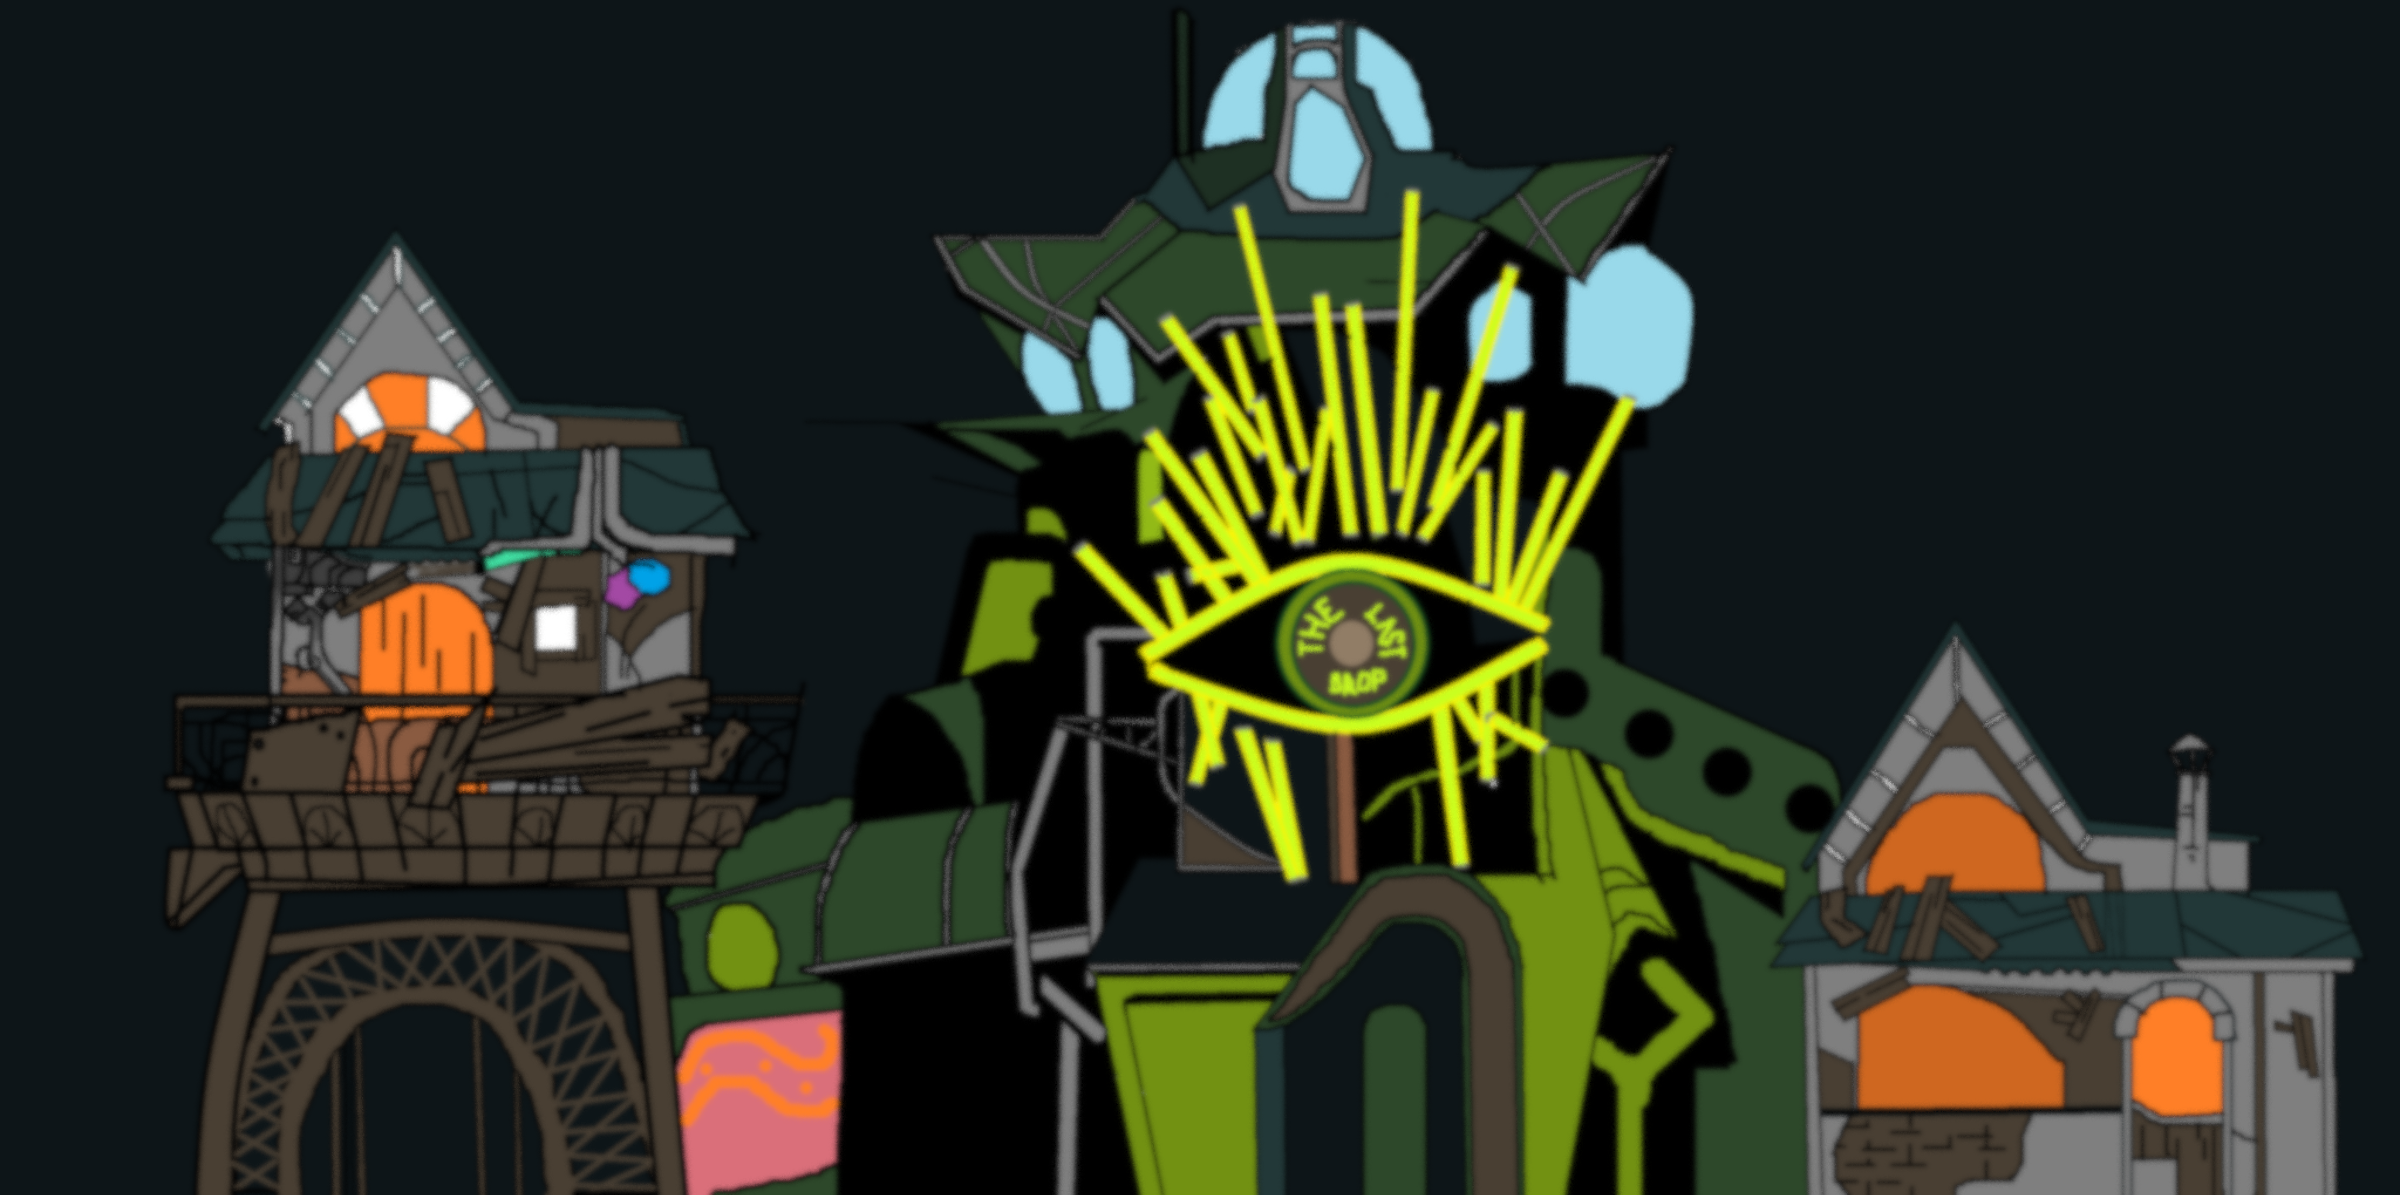
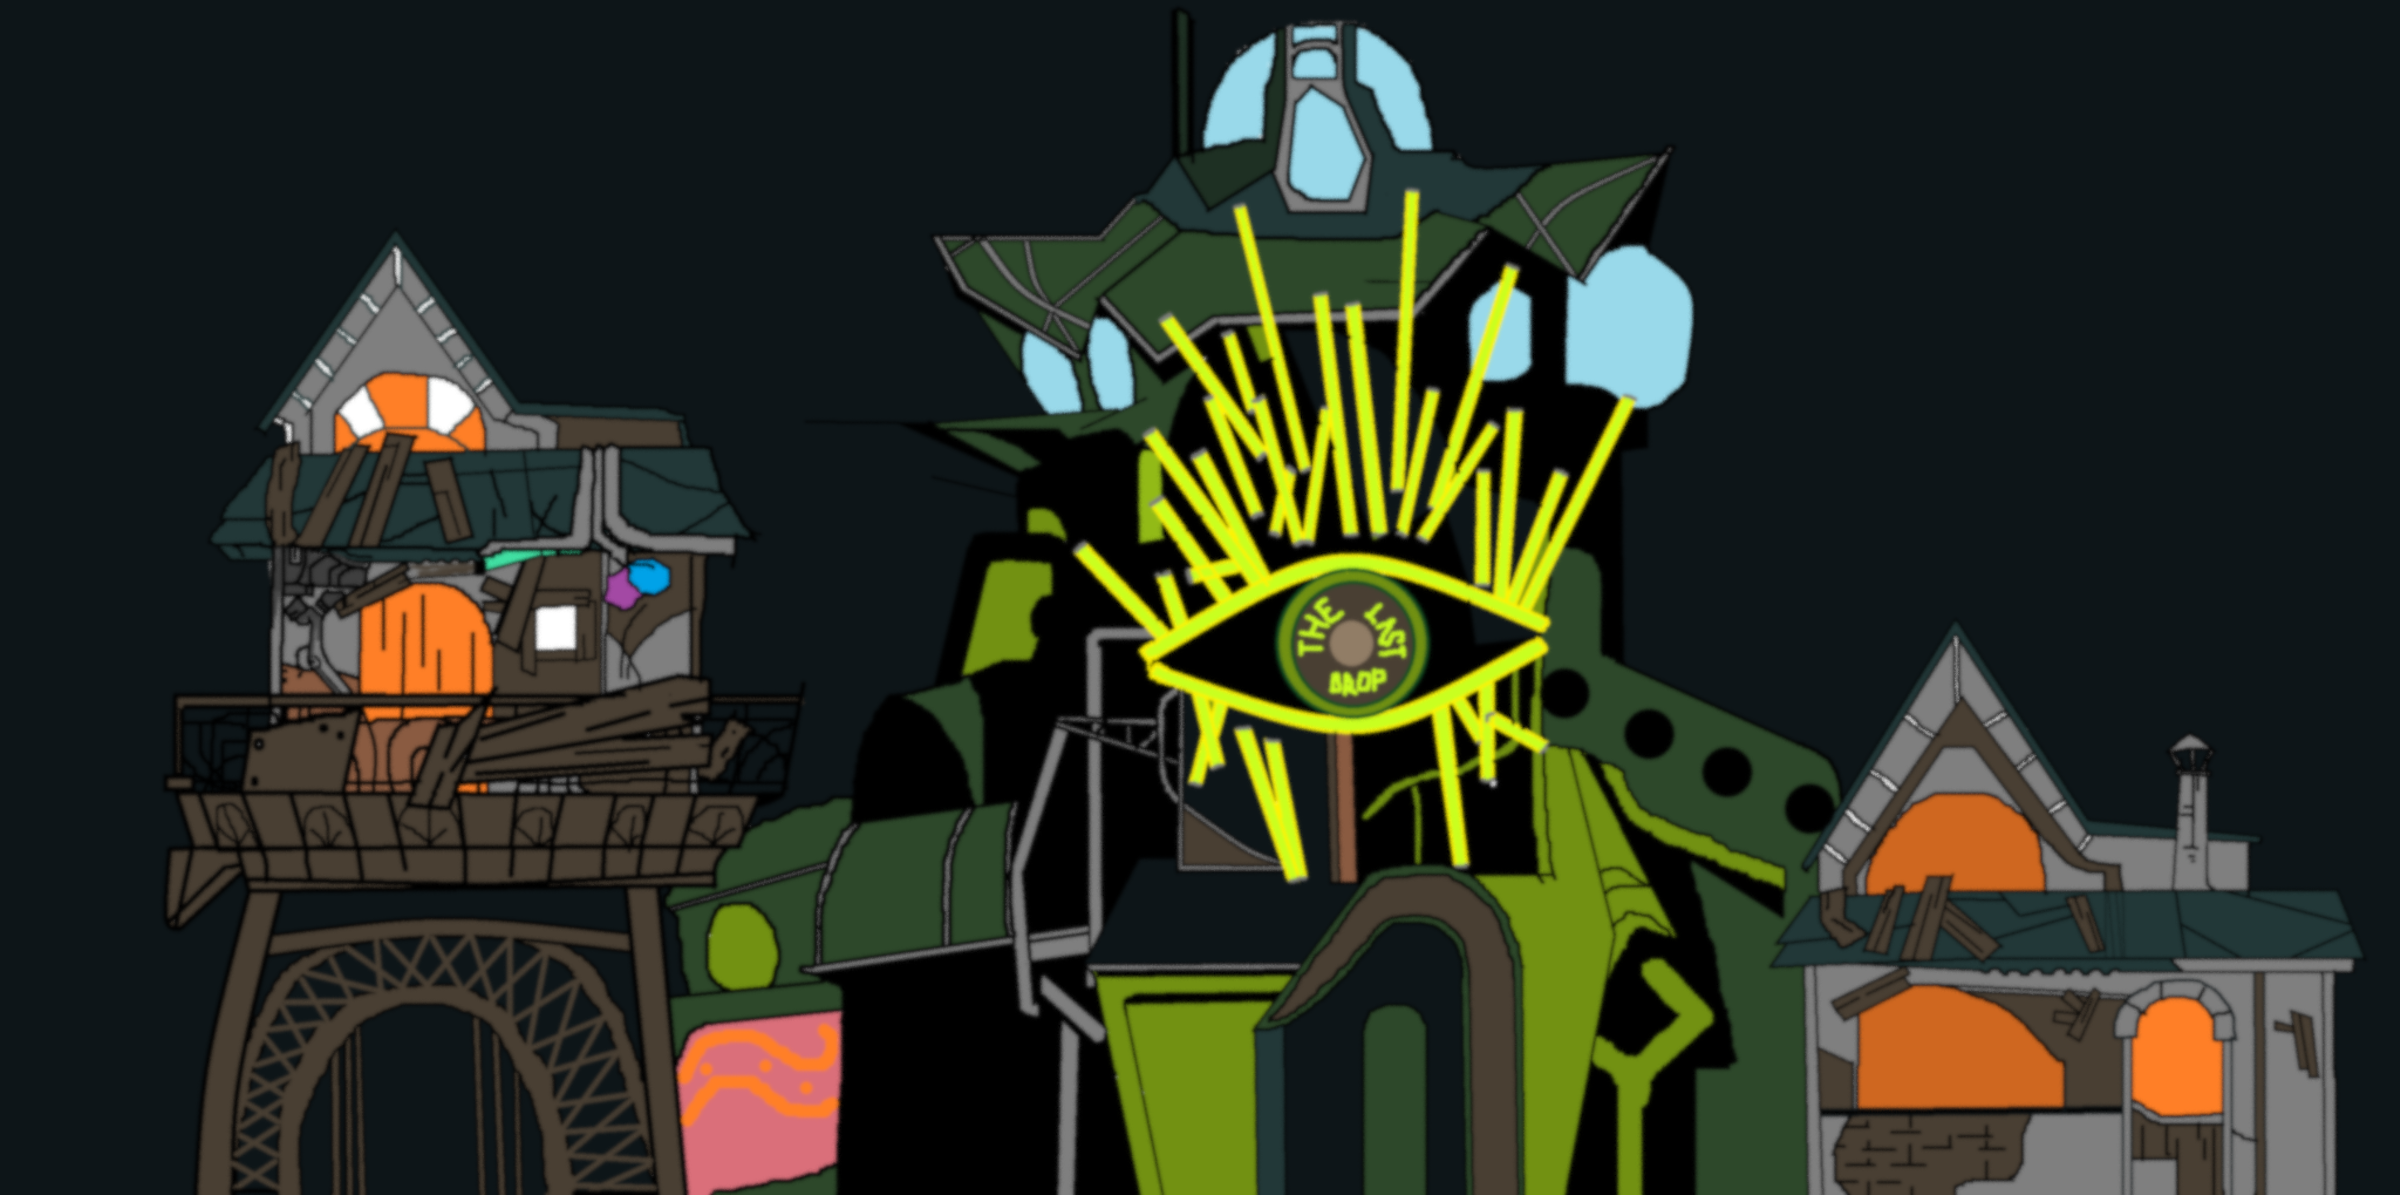
Add camera pan

diff --git a/src/entity.cpp b/src/entity.cpp
@@ -2,6 +2,7 @@
 
 #include "entity.h"
 #include "utils.h"
+#include <iostream>
 
 Jinx::Jinx() {
 	std::cout << "Jinx created automatically" << std::endl;
@@ -14,62 +15,86 @@ Jinx::~Jinx() {
 
 void Jinx::init() {
 	mTexture = LoadTexture("JINXc.png");
-	mPosition = { 10.0f, 400.0f };
+	mPosition = { 200.0f, 1005.0f };
 	mFrameRec = { 0.0f, 0.0f, (float)mTexture.width / 6, (float)mTexture.height / 2 };
-	mCurrentState = State::WALKING;
+	mFramesCount = 1;
+	entityCam.mTarget = { mPosition.x + 300.0f, mPosition.y };
+	mCurrState = State::WALKING;
+	mCurrDir = Direction::RIGHT;
+	mPrevDir = Direction::RIGHT;
 }
 
 void Jinx::update() {
+	if (IsKeyPressed(KEY_RIGHT)) {
+		;
+	}
 	if (IsKeyDown(KEY_RIGHT)) {
 		mPosition.x += 10.0f;
-		if (mCurrentState != State::RUNNING) {
-			mCurrentState = State::RUNNING;
+
+		if (mCurrState != State::RUNNING) {
+			mCurrState = State::RUNNING;
 			mFrameRec.x = 0.0f;
 			mFrameRec.y = mTexture.height / 2.0f;
-			mFrameRec.width = (mFrameRec.width < 0 ? mFrameRec.width * -1.0f : mFrameRec.width);
 			mFramesCount = 6;
-			mCurrentFrame = 0;
+			mCurrFrame = 0;
 		}
 
-	} else if (IsKeyDown(KEY_LEFT)) {
+		entityCam.mTarget.x += entityCam.mPanSpeed.x;
+		if (entityCam.mTarget.x > mPosition.x + 300.0f) {
+			entityCam.mTarget.x = mPosition.x + 300.0f;
+		}
+
+		entityCam.mTarget = { entityCam.mTarget.x, mPosition.y };
+
+		mFrameRec.width = (mFrameRec.width < 0 ? mFrameRec.width * -1.0f : mFrameRec.width);
+	}
+	if (IsKeyDown(KEY_LEFT)) {
 		mPosition.x -= 10.0f;
-		if (mCurrentState != State::RUNNING) {
-			mCurrentState = State::RUNNING;
+
+		if (mCurrState != State::RUNNING) {
+			mCurrState = State::RUNNING;
 			mFrameRec.x = 0.0f;
 			mFrameRec.y = mTexture.height / 2.0f;
-			mFrameRec.width = (mFrameRec.width < 0 ? mFrameRec.width : mFrameRec.width * -1.0f);
 			mFramesCount = 6;
-			mCurrentFrame = 0;
+			mCurrFrame = 0;
 		}
+
+		entityCam.mTarget.x -= entityCam.mPanSpeed.x;
+		if (entityCam.mTarget.x < mPosition.x - 70.0f) {
+			entityCam.mTarget.x = mPosition.x - 70.0f;
+		}
+
+		entityCam.mTarget = { entityCam.mTarget.x, mPosition.y };
+
+		mFrameRec.width = (mFrameRec.width < 0 ? mFrameRec.width : mFrameRec.width * -1.0f);
 	}
-	else if (IsKeyDown(KEY_DOWN)) {
+	if (IsKeyDown(KEY_DOWN)) {
 		mPosition.y += 10.0f;
 	}
-	else if (IsKeyDown(KEY_UP)) {
+	if (IsKeyDown(KEY_UP)) {
 		mPosition.y -= 10.0f;
 	}
-	else {
+	if (IsKeyUp(KEY_LEFT) && IsKeyUp(KEY_RIGHT) && IsKeyUp(KEY_UP) && IsKeyUp(KEY_DOWN)){
 		// Standing stance
-		if (mCurrentState != State::WALKING) {
-			mCurrentState = State::WALKING;
+		if (mCurrState != State::STANDING) {
+			mCurrState = State::STANDING;
 			mFrameRec.x = 0.0f;
 			mFrameRec.y = 0.0f;
 			mFramesCount = 1;
-			mCurrentFrame = 0;
+			mCurrFrame = 0;
 		}
-		 
-		 return;
+
+		return;
 	}
 
-	//if (IsKeyDown(KEY_UP)) mPosition.y -= 2.0f;
-	//if (IsKeyDown(KEY_DOWN)) mPosition.y += 2.0f;
+
 	mFramesCounter++;
 	if (mFramesCounter >= (60 / mFramesSpeed)) {
 		mFramesCounter = 0;
-		mCurrentFrame++;
+		mCurrFrame++;
 
-		if (mCurrentFrame > (mFramesCount - 1)) mCurrentFrame = 0;
-		mFrameRec.x = (float)mCurrentFrame * (float)mTexture.width / mFramesCount;
+		if (mCurrFrame > (mFramesCount - 1)) mCurrFrame = 0;
+		mFrameRec.x = (float)mCurrFrame * (float)mTexture.width / mFramesCount;
 	}
 }
 

diff --git a/src/game.cpp b/src/game.cpp
@@ -6,24 +6,31 @@
 void Game::init() {
 	mBackground.mTexture = LoadTexture("midgroundd.png");
 
-	jinx.init();
+	eManager.addEntity<Jinx>();
 	
-	mCamera.target = { jinx.mPosition.x, jinx.mPosition.y};
-	mCamera.offset = { screenWidth / 2.0f, screenHeight / 2.0f };
+	assert(eManager.mEntities.size() == 1);
+	
+	mCamera.target = { 
+		eManager.mEntities[0]->entityCam.mTarget.x,
+		eManager.mEntities[0]->entityCam.mTarget.y
+	};
+	mCamera.offset = { screenWidth/2.0f, screenHeight/2.0f };
 	mCamera.rotation = 0.0f;
 	mCamera.zoom = 1.0f;
 }
 
 void Game::update() {
-	jinx.update();
 	eManager.updateEntities();
+	mCamera.target = {
+		eManager.mEntities[0]->entityCam.mTarget.x,
+		eManager.mEntities[0]->entityCam.mTarget.y
+	};
 }
 
 void Game::draw() {
 	BeginMode2D(mCamera);
-		DrawTextureEx(mBackground.mTexture, { 0.0f, -200.0f }, 0.0f, 1.0f, WHITE);
+		DrawTextureEx(mBackground.mTexture, { 0.0f, 0.0f }, 0.0f, 1.0f, WHITE);
 		eManager.drawEntities();
-		jinx.draw();
 	EndMode2D();
 }
 

diff --git a/include/entity.h b/include/entity.h
@@ -6,7 +6,14 @@
 
 #include "raylib.h"
 
+struct EntityCam {
+	Vector2 mPanSpeed = { 15.0f, 15.0f };
+	Vector2 mTarget;
+};
+
 struct Entity {
+	EntityCam entityCam;
+
 	Texture mTexture;
 	Vector2 mPosition;
 	Vector2 mVelocity; // x = l-r velocity, y = up-down velocity
@@ -15,7 +22,7 @@ struct Entity {
 	Rectangle mFrameRec = { 0.0f, 0.0f, 0.0f, 0.0f };
 	const size_t mFramesSpeed = 8;
 	size_t mFramesCounter = 0;
-	size_t mCurrentFrame = 0;
+	size_t mCurrFrame = 0;
 
 	virtual void init() = 0;
 	virtual void update() = 0;
@@ -26,8 +33,14 @@ struct Entity {
 
 struct Jinx : Entity {
 	enum class State{
+		STANDING,
 		WALKING,
 		RUNNING,
+	};
+
+	enum class Direction {
+		LEFT,
+		RIGHT,
 	};
 	
 	Jinx();
@@ -37,8 +50,10 @@ struct Jinx : Entity {
 	~Jinx();
 
 	// Member variables
-	size_t mFramesCount = 1;
-	State mCurrentState = State::WALKING;
+	size_t mFramesCount;
+	State mCurrState;
+	Direction mCurrDir;
+	Direction mPrevDir;
 };
 
 struct Enforcer : Entity {

diff --git a/include/game.h b/include/game.h
@@ -12,8 +12,9 @@ struct Game {
 	Background mBackground;
 	Camera2D mCamera;
 	EntityManager eManager;
-	
-	Jinx jinx;
+
+	float mPanVelocity{ 0.5f };
+
 	//float mBgScroll{ 0.0f };
 	//float mMgScroll{ 0.0f };
 	//float mBgScrollVelocity{ 1.0f };

diff --git a/src/main.cpp b/src/main.cpp
@@ -18,6 +18,8 @@ int main() {
 
 	while (true) {
 		BeginDrawing();
+			
+			ClearBackground({ 13, 21, 24 });
 
 			game.update();
 
